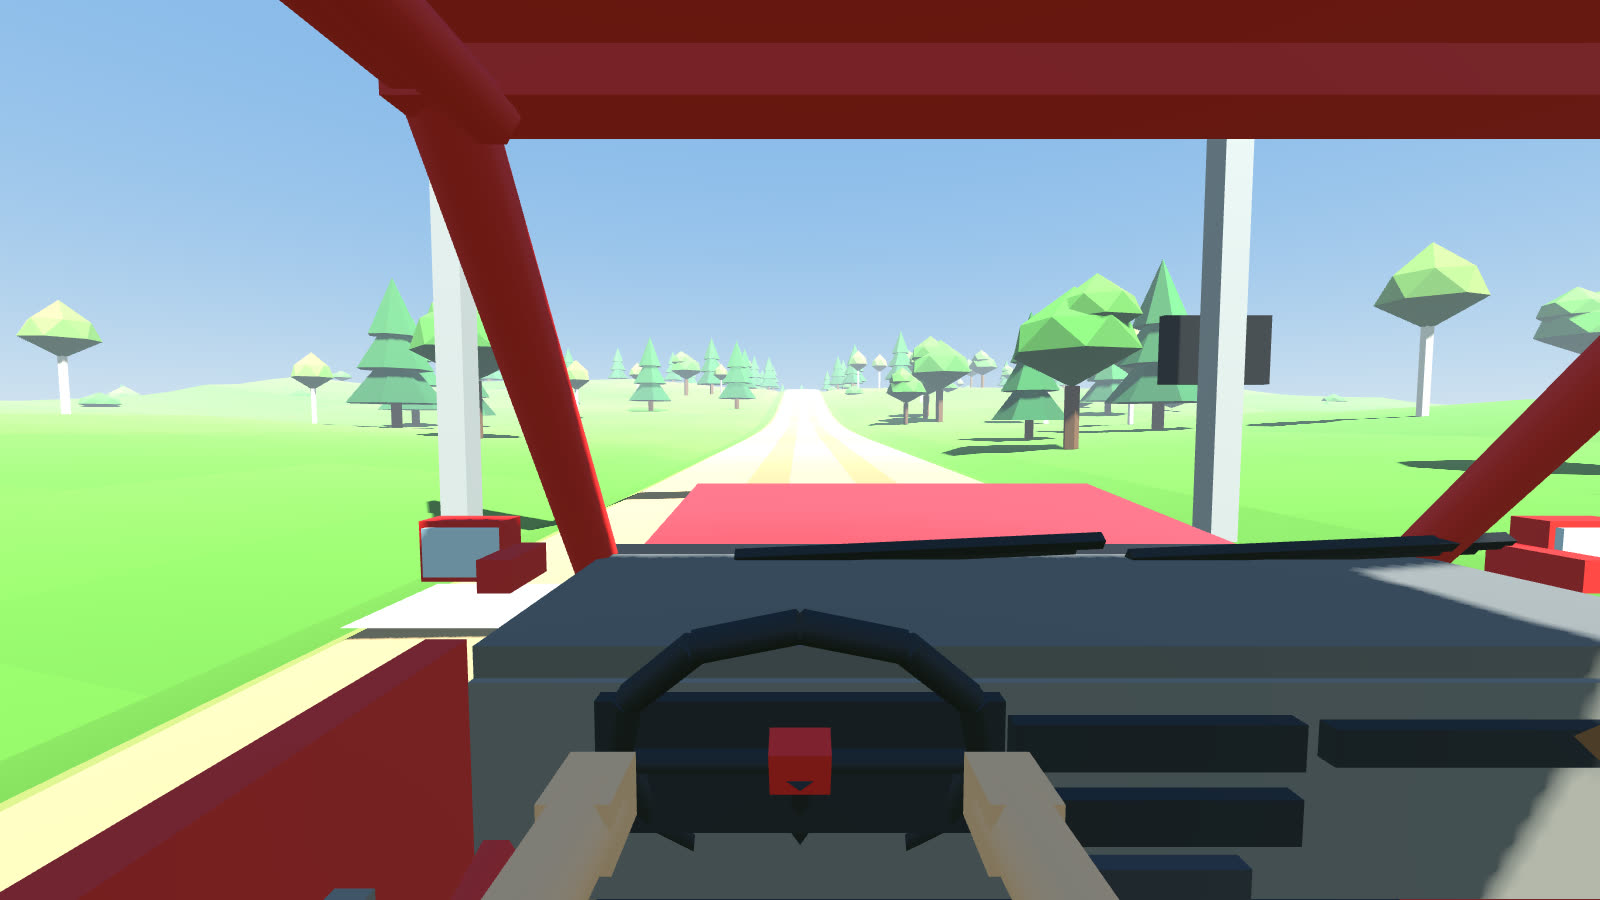
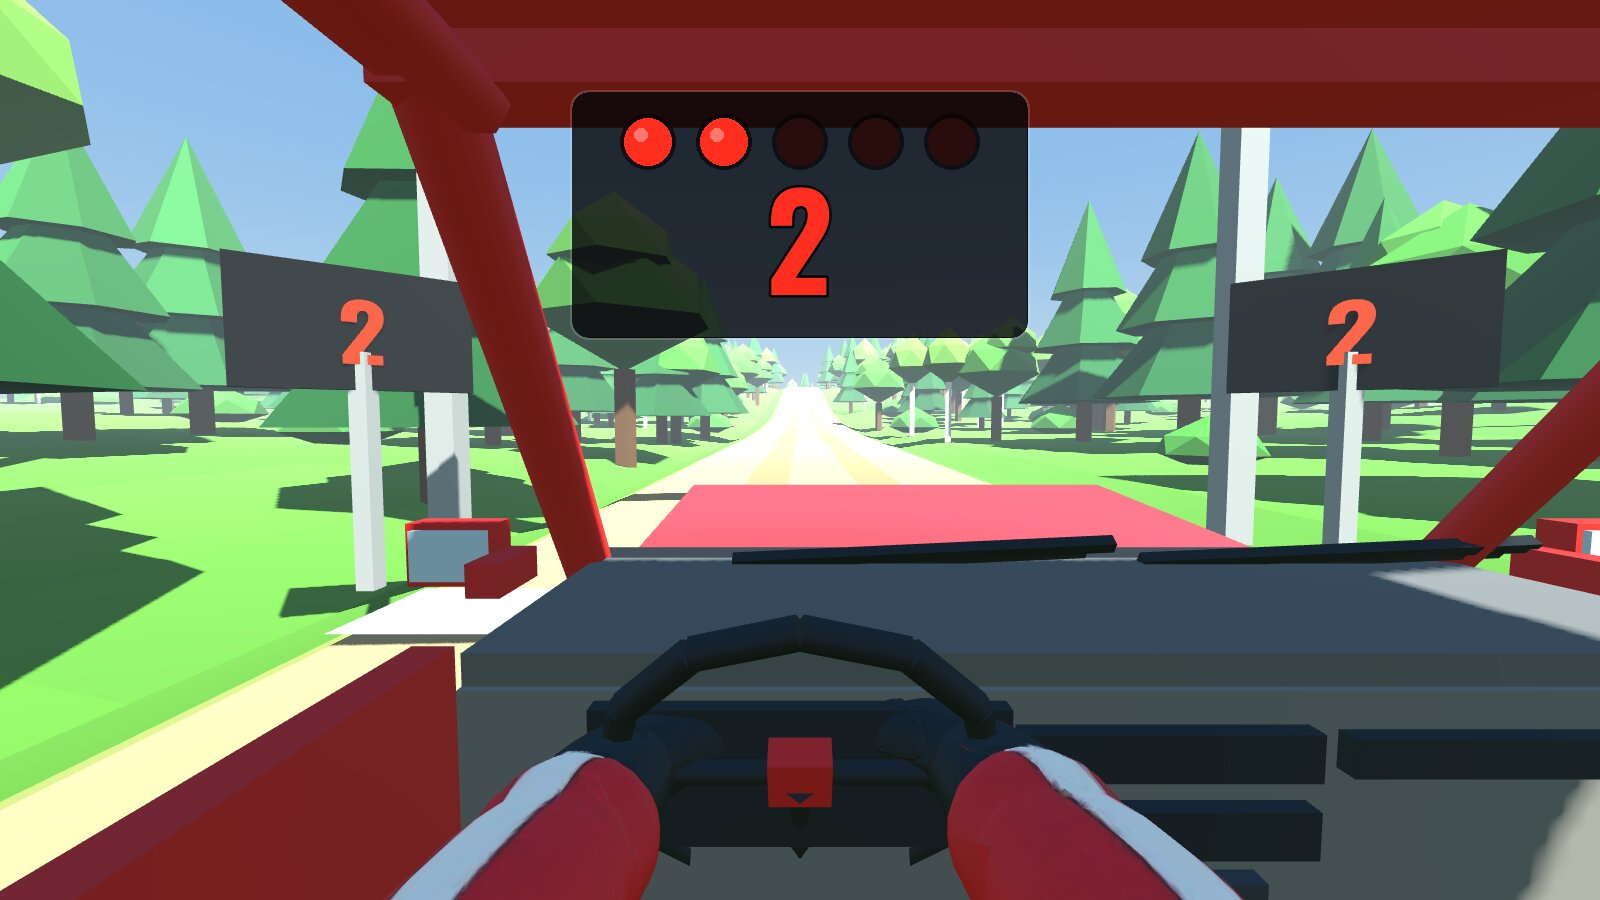
SHOTGUN RALLY docs: how the car drives now, start lights, models, new screenshots
Claude-Session: https://claude.ai/code/session_01NXYqac7qKp55iHA8gZ85EC

diff --git a/shotgun-rally/README.md b/shotgun-rally/README.md
@@ -14,7 +14,8 @@ No friend online? The **AI co-driver** takes the seat.
 | | |
 |---|---|
 | ![Driver](docs/screens/driver.jpg) | ![Co-driver looking at the map](docs/screens/codriver.jpg) |
-| ![Mud on the windshield](docs/screens/mud.jpg) | ![The start line](docs/screens/start.jpg) |
+| ![Mud on the windshield](docs/screens/mud.jpg) | ![The start: five lights and a clock each side of the road](docs/screens/start.jpg) |
+| ![Your co-driver, seen from the driver's seat](docs/screens/crew.jpg) | ![The chase camera (C)](docs/screens/chase.jpg) |
 
 ## ⬇ Download (always the newest build)
 
@@ -40,12 +41,14 @@ Free, PC only (Windows, Mac, Linux). Built in **Godot 4.7**, like BAGHOLDERS.
 
 | | Driver | Co-driver (shotgun) |
 |---|---|---|
-| Sees | The road through the windshield. **No map, no minimap, no HUD.** Thick forest on both sides, crests hide what's next | The **map board** in their lap: the road ahead and where the car is, nothing else. *Or* the road if they look up. Never both at once |
-| Does | Steers, brakes, handbrakes, trusts | Reads the bends off the map and turns them into calls (that's the skill), counts down the start (the start clock is on their side), works the **wipers** when a puddle covers the windshield in mud |
-| Alone? | The **AI co-driver** calls the stage in the "Fraser" voice ("4 left, 100, over crest"), early enough that you hear it all before the corner, and wipes the mud off for you | — |
+| Sees | The road through the windshield. **No map, no minimap**: just the start lights and the stage clock. Thick forest on both sides, crests hide what's next | The **map board** in their lap: the road ahead and where the car is, nothing else. *Or* the road if they look up. Never both at once |
+| Does | Steers, brakes, handbrakes, trusts | Reads the bends off the map and turns them into calls (that's the skill), counts down the start, works the **wipers** when a puddle covers the windshield in mud |
+| Alone? | The **AI co-driver** calls the stage in the "Fraser" voice ("4 left, 100, over crest") from **where the car is**: each call ~2 s before its corner at the speed you're doing, one at a time, never corners you've already passed. It wipes the mud off for you too | — |
 
-1. **Start line.** The host presses ENTER and the 5-second countdown starts. Moving off early is a
-   **jump start: +10 s**.
+1. **Start line.** The camera circles the car on the line until the host presses ENTER; then you're
+   in your seat for the 5-second countdown: **five start lights** on screen and a start clock on each
+   side of the road. Moving off early is a **jump start: +10 s**. The stage clock (and any penalties)
+   stays at the top of the screen.
 2. **The stage** is ~2.7 km of gravel through thick forest (~10,000 trees): corners graded 6 (nearly flat) to 1 (very slow) plus
    hairpins, corners that tighten or open, crests, jumps, puddles and rocks on the inside of the
    "don't cut" corners. Every stage is generated from a number, so there's always a new one.
@@ -54,8 +57,30 @@ Free, PC only (Windows, Mac, Linux). Built in **Godot 4.7**, like BAGHOLDERS.
    top. No grades, no warnings: reading the road and calling it is the co-driver's job.
 4. **Mud:** a puddle at speed covers the **whole windshield**. The wipers clear their two arcs, a bit
    more each stroke (it takes about two to see properly), and the corners stay dirty.
-5. Stuck? **R** puts the car back on the road (**+5 s**).
-6. **Flying finish**, results, then the host picks: next stage, retry, or swap seats.
+5. Stuck? **R** puts the car back on the road (**+5 s**). Driver: **C** swaps to a chase camera
+   behind the car (the co-driver stays in their seat).
+6. **Flying finish**, results (the camera circles the car again), then the host picks: next stage,
+   retry, or swap seats.
+
+### How the car drives
+
+Rebuilt from research on real rally tyres and rally games (DiRT Rally, Richard Burns Rally, Assetto
+Corsa's gamepad assist; sources in the commit history):
+
+- **Steering asks the front tyres for grip, not for an angle.** Full steering = the most the front
+  tyres can do at that speed (their peak slip angle), wherever the car is pointing, so on keys or a
+  stick you never steer past the limit and plough on (that was the "always understeering" feeling).
+  Full opposite lock in a slide = the most countersteer. At parking speeds it's plain steering.
+- **Gravel tyres:** grip builds to a peak at ~10 deg of slip and then fades slowly (a gravel tyre
+  pushes a little bank of stones), so a slide is something you drive.
+- **Weight transfer matters:** each tyre grips a bit less per kilo the more it's loaded, and the
+  forces act at the contact patches. Brake or lift into a bend and the loaded nose bites; a light
+  tail steps out. The handbrake locks the rears and declutches them (all the power to the front,
+  like a real Rally2 car) for the hairpin flick.
+- ~0.85 g of cornering on gravel (real rally cars: ~0.8 g), 0-100 km/h in 4.3 s (a Rally2 car: ~4.2 s),
+  45 / 55 AWD.
+- `tests/handling_check.gd` measures it: at 50 / 80 / 110 km/h full steering has to be the most
+  grip (before the rework, full steering at 110 km/h gave 0.68 g and 25 % gave 0.80 g).
 
 ## Controls
 
@@ -68,6 +93,7 @@ Free, PC only (Windows, Mac, Linux). Built in **Godot 4.7**, like BAGHOLDERS.
 | **Co-driver:** wipers (the driver's job when alone) | F | A |
 | Look around | mouse | right stick |
 | Reset car (+5 s) | R | Y |
+| **Driver:** chase camera on / off | C | right stick click |
 | Start / next stage (host) | ENTER | START |
 | Pause | ESC | BACK |
 
@@ -101,7 +127,7 @@ real voice.
 | 0 | Reference breakdown, name, plan, co-driver research, voice pack | ✅ done |
 | 1 | **Playable grey box:** generated forest gravel stages, raycast rally car, first-person driver + co-driver seats, the co-driver's map board, mud + wipers, start countdown, jump starts, resets, results, 2 players online, builds | ✅ done |
 | 2 | **AI co-driver** | ✅ basic version done (calls by time, countdown, finish). Next: quick-call wheel for the human co-driver, call-timing setting in the menu, more lines |
-| 3 | **Art:** low-poly car and cockpit (Blender scripts + Higgsfield), better trees, helmets and arms | next |
+| 3 | **Art:** the car and both crew are Higgsfield models (concept art -> 3D, the crew rigged and posed in their seats: hands on the wheel / the map board, heads turning where the player looks); next: better trees, the car's own wheels turning | car + crew ✅ |
 | 4 | **Jobs + content:** OK board, warning triangle, pushing the car, punctures, time cards, road book, recce mode, more biomes | |
 | 5 | Polish, crews racing each other | |
 
@@ -128,6 +154,8 @@ real voice.
 
 ## Credits & notes
 
+- Car and crew: made with Higgsfield (GPT Image concept art -> Meshy image-to-3D, the crew
+  auto-rigged), from your account. The concept art is in `docs/reference/models/`.
 - Co-driver voice: Higgsfield Seed Audio 1.0, preset voice "Fraser", made for the Rally Co-Driver
   GPS app ([driver-test-app](https://github.com/pbelfand-dot/driver-test-app)).
 - Sound effects are synthesized (`tools/make_sfx.py`, plus BAGHOLDERS' engine / crash / bell sounds,

diff --git a/README.md b/README.md
@@ -334,17 +334,19 @@ The first time you open it:
 | | |
 |---|---|
 | ![Driver](shotgun-rally/docs/screens/driver.jpg) | ![Co-driver looking at the map](shotgun-rally/docs/screens/codriver.jpg) |
-| ![Mud on the windshield](shotgun-rally/docs/screens/mud.jpg) | ![The start line](shotgun-rally/docs/screens/start.jpg) |
+| ![Mud on the windshield](shotgun-rally/docs/screens/mud.jpg) | ![The start: five lights and a clock each side of the road](shotgun-rally/docs/screens/start.jpg) |
+| ![Your co-driver, seen from the driver's seat](shotgun-rally/docs/screens/crew.jpg) | ![The chase camera (C)](shotgun-rally/docs/screens/chase.jpg) |
 
 ## How a SHOTGUN RALLY stage plays
 
 | | Driver | Co-driver (shotgun) |
 |---|---|---|
-| Sees | The road through the windshield. **No map, no minimap, no HUD.** Thick forest on both sides, crests hide what's next | The **map board** in their lap: the road ahead and where the car is, nothing else. *Or* the road if they look up. Never both at once |
+| Sees | The road through the windshield. **No map, no minimap**: just the start lights and the stage clock. Thick forest on both sides, crests hide what's next | The **map board** in their lap: the road ahead and where the car is, nothing else. *Or* the road if they look up. Never both at once |
 | Does | Steers, brakes, handbrakes, trusts | Reads the bends off the map and yells them (that's the skill), counts down the start, works the **wipers** when a puddle covers the windshield in mud |
-| Alone? | The **AI co-driver** calls the stage in the "Fraser" voice ("4 left, 100, over crest") and wipes the mud off for you | — |
+| Alone? | The **AI co-driver** calls the stage in the "Fraser" voice ("4 left, 100, over crest") from where the car is, ~2 s before each corner, and wipes the mud off for you | — |
 
-- **Start:** the host presses ENTER for a 5-second countdown. Move early and it's a **jump start: +10 s**.
+- **Start:** the host presses ENTER for a 5-second countdown: five start lights on screen and a start clock
+  each side of the road. Move early and it's a **jump start: +10 s**.
 - **Stages** are ~2.7 km of gravel through thick forest: corners from 6 (nearly flat) to 1 (very slow),
   hairpins, crests, jumps, puddles and rocks. Every stage is generated, so there's always a new one.
 - Stuck? **R** puts the car back on the road (**+5 s**). After the finish the host picks: next stage,
@@ -361,6 +363,7 @@ The first time you open it:
 | **Co-driver:** wipers (the driver's job when alone) | F | A |
 | Look around | mouse | right stick |
 | Reset car (+5 s) | R | Y |
+| **Driver:** chase camera on / off | C | right stick click |
 | Start / next stage (host) | ENTER | START |
 | Pause | ESC | BACK |
 

diff --git a/shotgun-rally/docs/PLAN.md b/shotgun-rally/docs/PLAN.md
@@ -10,7 +10,7 @@
 | Name | **SHOTGUN RALLY** ✅ confirmed. "Riding shotgun" is the passenger seat, and the passenger seat is the game |
 | Where | The `shotgun-rally/` folder on `main`, next to BAGHOLDERS: its own Godot project and its own build. Downloads come from a separate release tag, `shotgun-latest` |
 | Price | **Free**: GitHub downloads + **itch.io** (set-up ready: [`ITCH.md`](ITCH.md)) |
-| Budget | This Claude plan + your Higgsfield credits (**844.5**, Plus plan, checked 2026-10-04) |
+| Budget | This Claude plan + your Higgsfield credits (**844.5**, Plus plan, checked 2026-10-04; **716.4** after the car + crew models on 2026-10-05) |
 | Co-driver | Sits in the car and can look out the windows. Does **the real co-driver's jobs**: see [`CO_DRIVER_JOBS.md`](CO_DRIVER_JOBS.md) |
 | Players | 2 (one crew) now. Crews racing each other later |
 | Controls | Keyboard + controller (no steering wheel for now: you don't have one to test with) |
@@ -97,7 +97,7 @@ It's free, so "business" means **getting players and keeping costs at zero.**
 |---|---|
 | Godot, GitHub, GitHub Actions builds | $0 (Actions minutes are free on public repos; private repos get a monthly free allowance) |
 | Voice (more Fraser lines) | ~0.2 credits a line, **< 10 credits** total |
-| 3D models (Higgsfield Meshy, textured low poly) | 25 credits each. Budget: **~150–250 credits** for a car body or two, props, animals and spectators |
+| 3D models (Higgsfield Meshy, textured low poly) | Planned 25 credits each; actually **~42–44** (Meshy 7, textured, the crew auto-rigged; its low-poly mode failed 3 times, refunded). Spent so far: **127.5 credits** for the car, driver and co-driver plus 6 concept images (0.25 each). Budget left for props, animals and spectators: plenty |
 | Images (concept art, map board art, logo) | a few credits each |
 | Keep in reserve | **~500 credits** for later content |
 | Mac signing ($99/yr) | Skip it, like BAGHOLDERS (players use "Open Anyway") |
